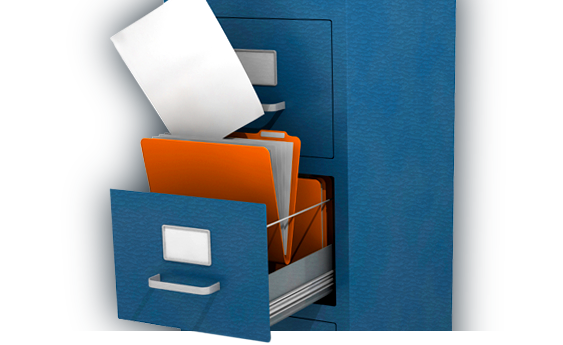
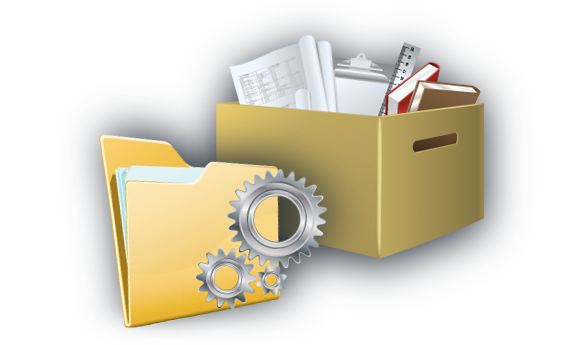
Newer Docs illustration (nix File Cabinet, enter gears, folder and box)
Latest illustration for Docs landing page as associated CSS tweaks.

diff --git a/static/sass/mq.css b/static/sass/mq.css
@@ -1317,7 +1317,8 @@ body:after {
     margin-bottom: -3em; }
 
   .documentation-banner {
-    background: 136% 0 no-repeat url('../img/landing-docs.png?1363149778') transparent; }
+    background: 130% 0 no-repeat url('../img/landing-docs.png?1363304389') transparent;
+    padding-bottom: 1em; }
 
   .community-banner {
     text-align: left;
@@ -1797,9 +1798,7 @@ body:after {
     margin-bottom: -3em; }
 
   .documentation-banner {
-    background-position: 110% 0;
-    min-height: 350px;
-    margin-bottom: -20px; }
+    background-position: 110% 0; }
     .documentation-banner p {
       margin-right: 14.81481%; }
 
@@ -1962,7 +1961,8 @@ body:after {
       margin-right: 14.81481%; }
 
   .documentation-banner {
-    background-position: 110% 0; }
+    background-position: 110% 0;
+    min-height: 345px; }
     .documentation-banner .call-to-action {
       margin-right: 8.51064%; }
     .documentation-banner p {

diff --git a/static/sass/_layout.scss b/static/sass/_layout.scss
@@ -720,7 +720,8 @@
         margin-bottom: -3em;
     }
     .documentation-banner {
-        background: 136% 0 no-repeat image-url("landing-docs.png") transparent;
+        background: 130% 0 no-repeat image-url("landing-docs.png") transparent;
+        padding-bottom: 1em; 
     }
     .community-banner {
         text-align: left; /* Why is this needed? */
@@ -1122,8 +1123,6 @@
         }
         .documentation-banner {
             background-position: 110% 0;
-            min-height: 350px;
-            margin-bottom: -20px;
             
             p {
                 @include post( 1,7 ); 
@@ -1368,6 +1367,7 @@
     }
     .documentation-banner {
         background-position: 110% 0; 
+        min-height: 345px; 
         
         .call-to-action {
             @include post( 1 ); 

diff --git a/static/sass/no-mq.css b/static/sass/no-mq.css
@@ -1132,7 +1132,8 @@ body {
   margin-bottom: -3em; }
 
 .documentation-banner {
-  background: 136% 0 no-repeat url('../img/landing-docs.png?1363149778') transparent; }
+  background: 130% 0 no-repeat url('../img/landing-docs.png?1363304389') transparent;
+  padding-bottom: 1em; }
 
 .community-banner {
   text-align: left;
@@ -1607,9 +1608,7 @@ a.jump-to-menu {
   margin-bottom: -3em; }
 
 .documentation-banner {
-  background-position: 110% 0;
-  min-height: 350px;
-  margin-bottom: -20px; }
+  background-position: 110% 0; }
   .documentation-banner p {
     margin-right: 14.81481%; }
 
